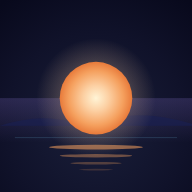
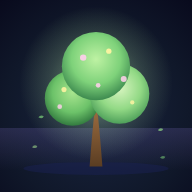
feat(start): ikona stromu, home button v Shellu, oprava textu cron 7:00
1. /start ikona — pozitivní strom s lístečky a květy místo úsvitu
   (raseliniste-icon.svg + apple-touch-icon.png 180/192/512).
   Jarní zelené tóny, růžové a žluté květy, zelená aura.

2. Shell topbar — přidán Home button (lucide:home) co vede na /start.
   Řeší problém: když Gideon na mobilu klikne /start → modul, vracel se
   na /start složitě přes hlavní menu. Teď má vždy domeček v topbaru.

3. StudnaDetail — text 'Zahrnout do denního souhrnu (e-mail v 18:00)'
   změněn na '7:00 ráno' po přesunu cronu.

diff --git a/src/components/StudnaDetail.tsx b/src/components/StudnaDetail.tsx
@@ -827,7 +827,7 @@ function SettingsTab({ project, onRefresh }: { project: ProjectDetail; onRefresh
             onChange={(e) => setIncludeInDigest(e.target.checked)}
             className="size-4"
           />
-          Zahrnout do denního souhrnu (e-mail v 18:00)
+          Zahrnout do denního souhrnu (e-mail v 7:00 ráno)
         </label>
         <div className="flex gap-2 pt-2 border-t border-white/5">
           <Button onClick={save} disabled={saving}>